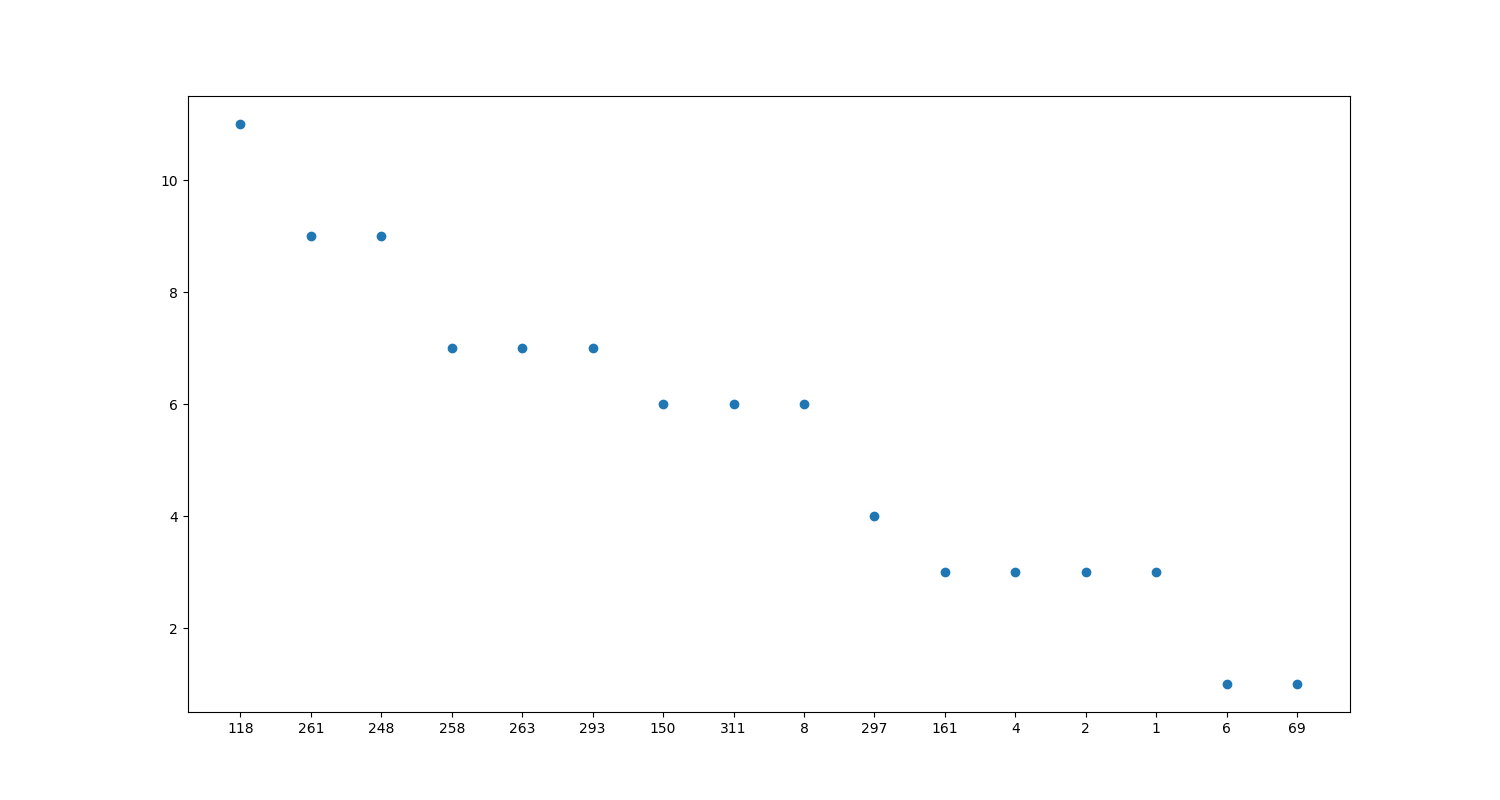
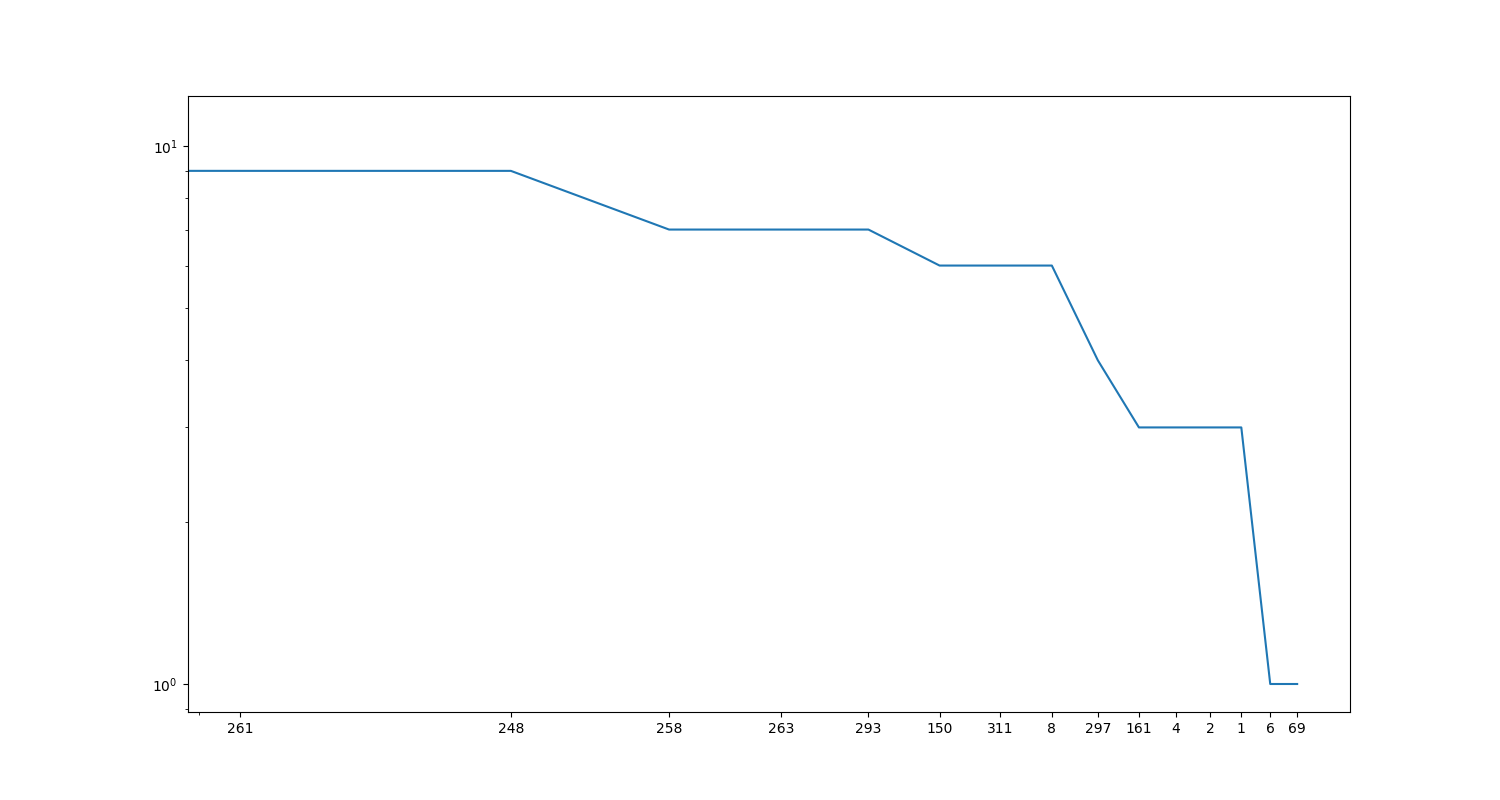
Log scale

diff --git a/labo_3_us_airlines/tools/tools.py b/labo_3_us_airlines/tools/tools.py
@@ -251,5 +251,5 @@ class UsAirlines:
         print(x, y)
         fig, ax = plt.subplots(figsize=(15, 8))
 
-        ax.scatter(x, y)
+        ax.loglog(x, y, label='log')
         plt.savefig("fig.png")
